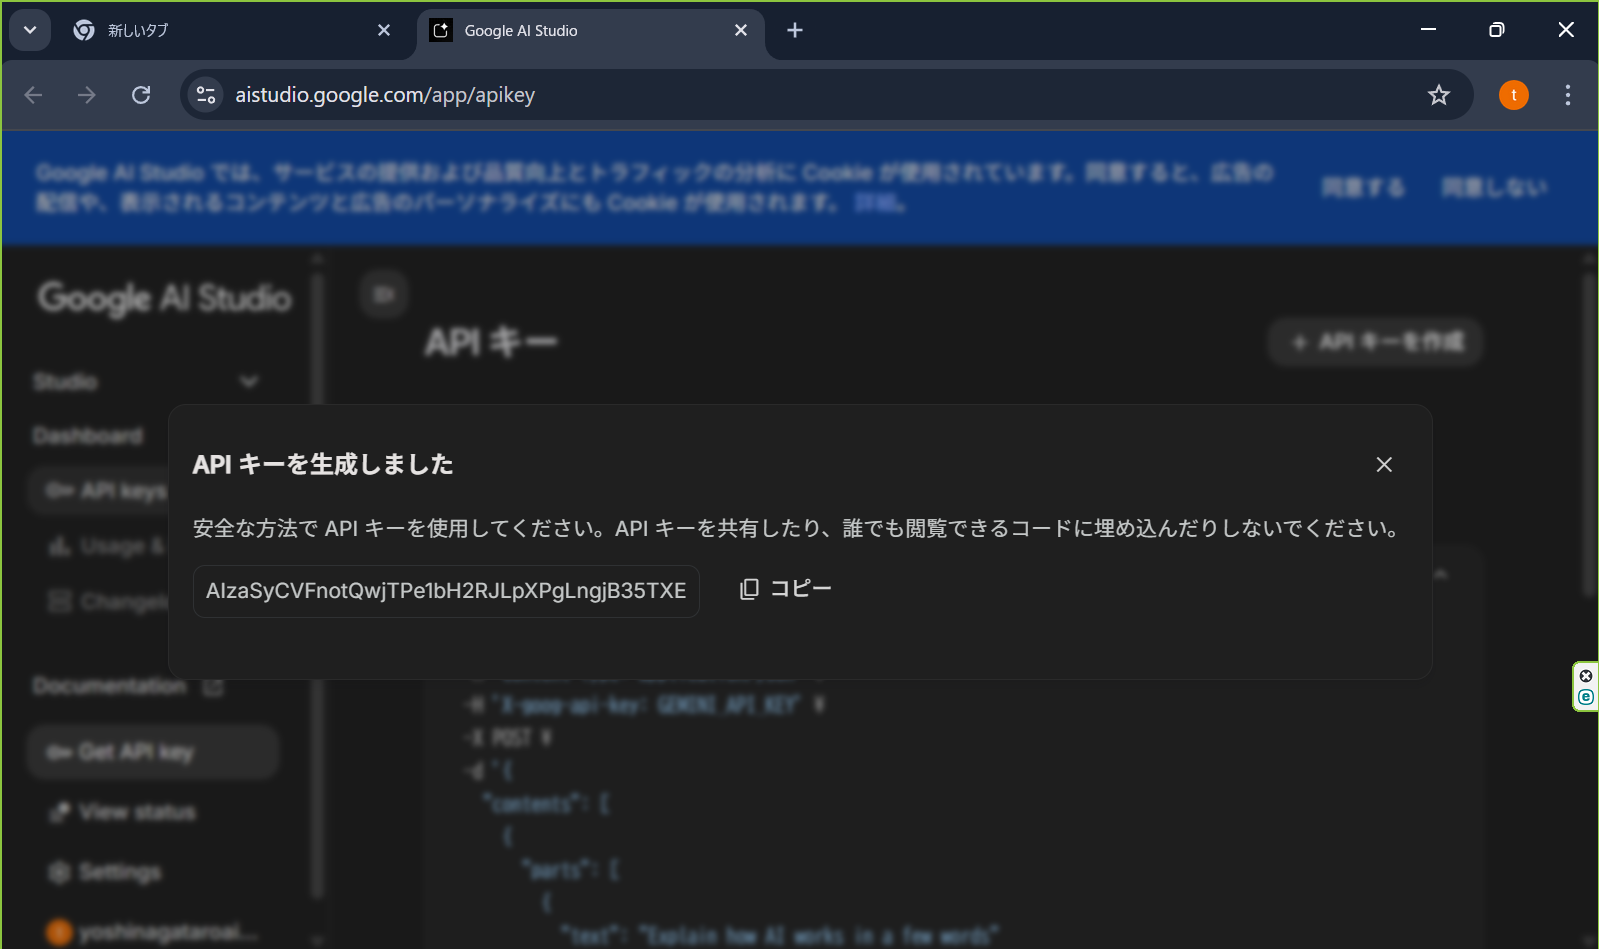
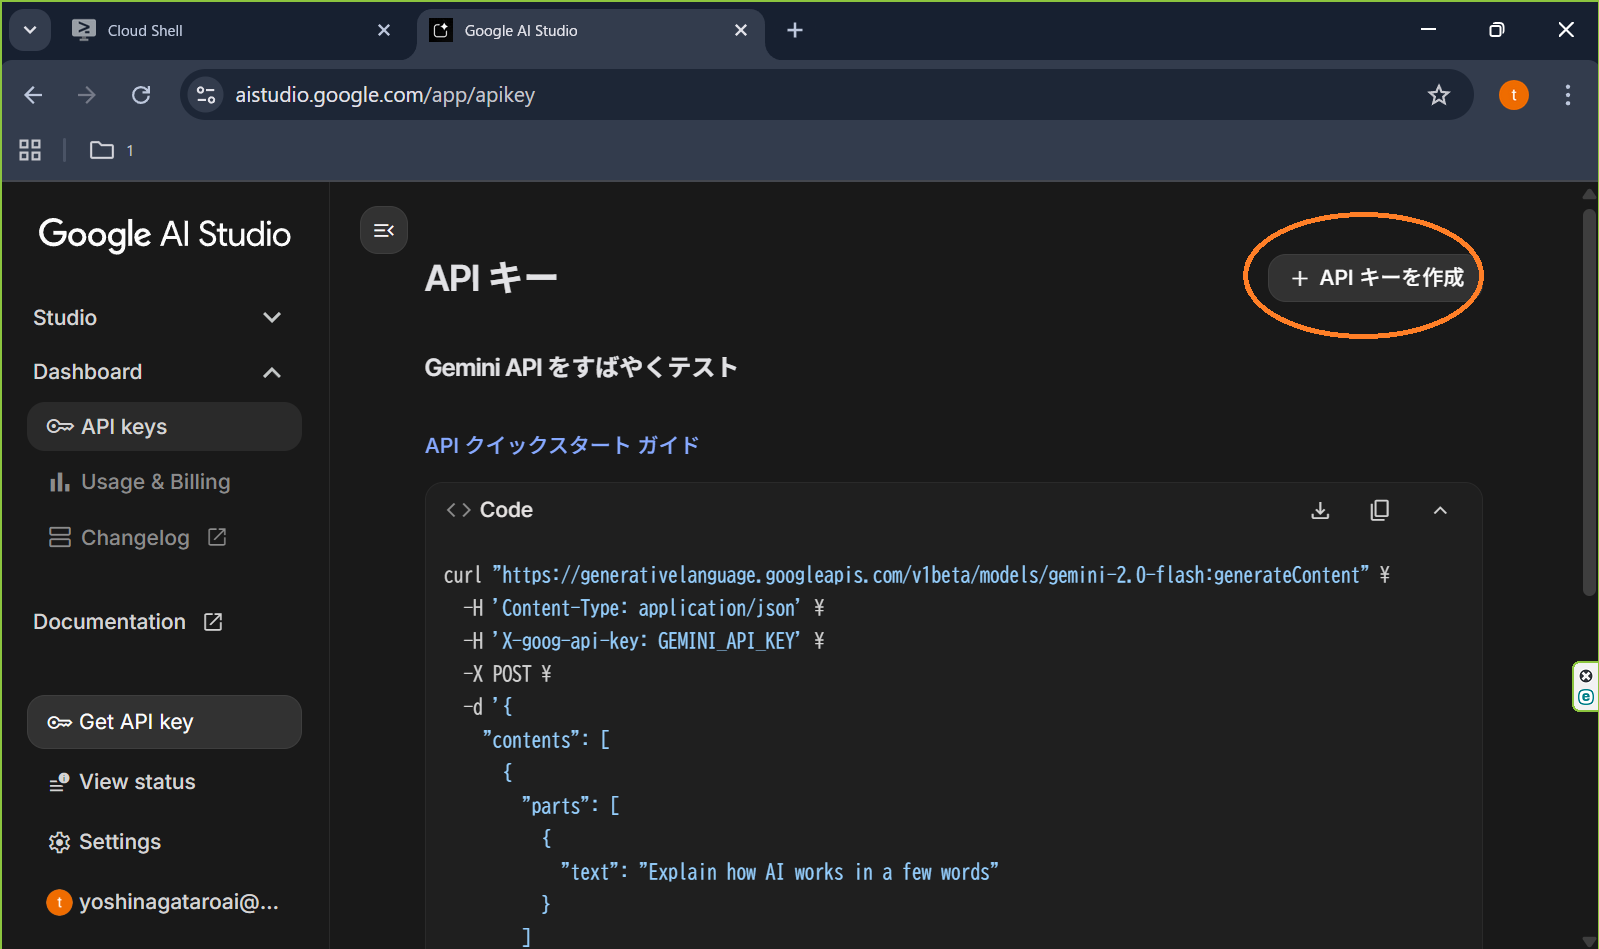
2025/09/01 14:48

diff --git a/README.md b/README.md
@@ -130,20 +130,35 @@ gmailアドレスを連絡してください。
     ```bash
     python m01_google_drive_manager.py
     ```
-    ヒント: gemini-cliを終了せずに、gemini-cliに実行させる方法もあります。処理が遅いので上記では自分でアプリを実行しています。gemini-cliに実行してもらう、命令方法「m01_google_drive_manager.pyを実行して」
+>    ヒント: 
+>    gemini-cliを終了せずに、gemini-cliに実行させる方法もあります。処理が遅いので上記では自分でアプリを実行しています。gemini-cliに実行してもらう、命令方法「m01_google_drive_manager.pyを実行して」
 
 ---
 
-### ステップ9：[オプション作業]　全てのアプリを自動実行して、動画ファイルから文字起こししてマガジンを作ります。
+### ステップ9以降：[オプション作業]全てのアプリを自動実行して、動画ファイルから文字起こししてマガジンを作ります。
+
+
+### ステップ9：[オプション作業]gemini-apiを活用して、音声ファイルを文字起こしするために、geminiのAPIキーを取得します。
 *   **作業内容:**
     全てのアプリを実行するには、更にいくつか作業が必要です。
     1. Google ai studio で、geminiのAPIキーを取得します。
     ```bash
     https://aistudio.google.com/app/apikey
     ```
+    2. 同意画面が表示される方は、同意してください。
+    ![同意](img/apikey1.png)
 
+    3. 画面右上の、「＋ APIキーを作成」をクリックしてください。
+    ![APIキー作成](img/apikey2.png)
+
+    4. APIキーが生成されたので、中央のコピーボタンをクリックしてください。
+    ![APIキーコピー](img/apikey3.png)
 
 
 ---
+
+### ステップ10：[オプション作業]Google cloud shellにもどり、エディター画面を操作します。
+*   **作業内容:**
+    1. 
 
 
